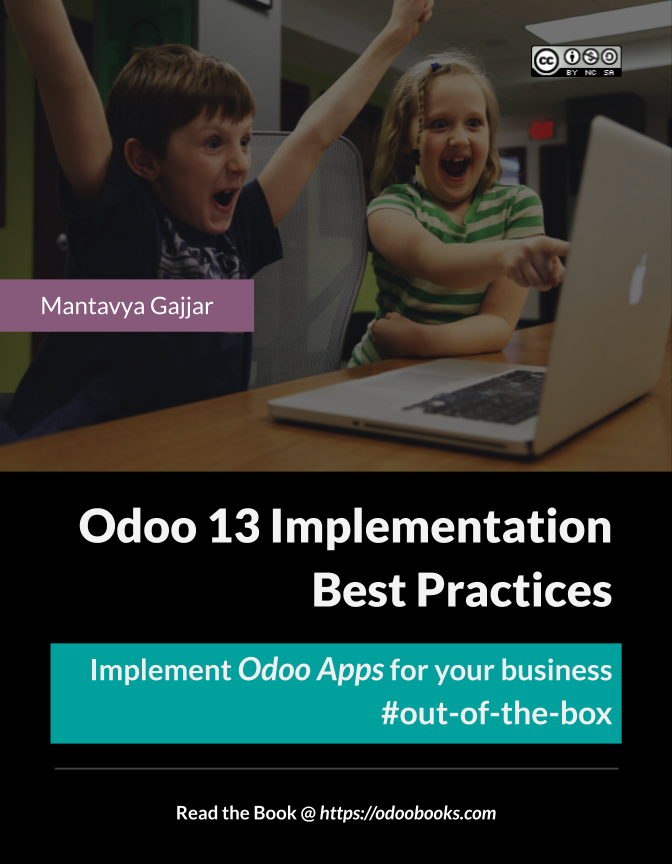
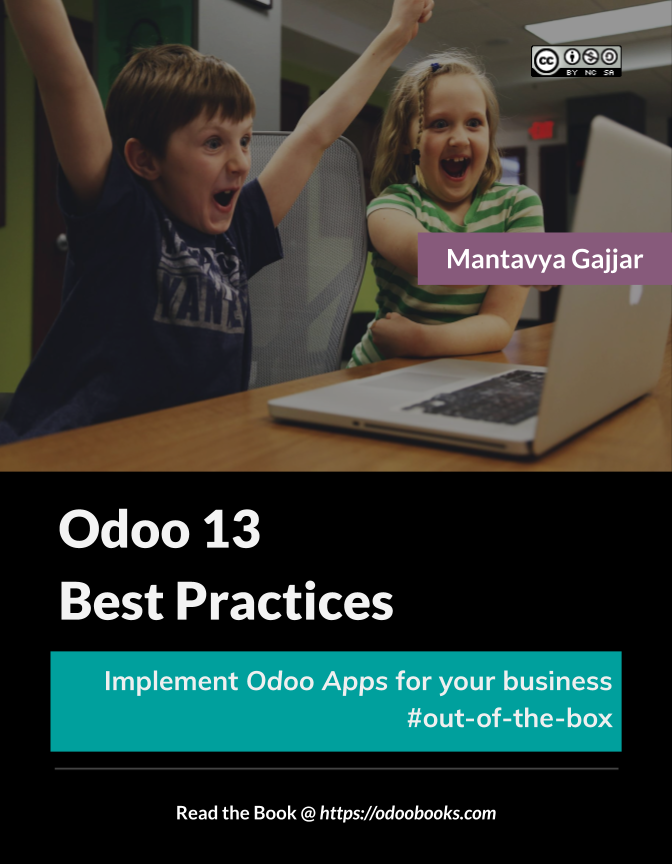
[FIX]: set the images for the upcoming version of Odoo book (#18)

diff --git a/docs/conf.py b/docs/conf.py
@@ -63,9 +63,9 @@ author = u'Mantavya Gajjar'
 # built documents.
 #
 # The short X.Y version.
-version = '12.0'
+version = '13.0'
 # The full version, including alpha/beta/rc tags.
-release = '12.0'
+release = '13.0'
 
 # The language for content autogenerated by Sphinx. Refer to documentation
 # for a list of supported languages.

diff --git a/docs/about.rst b/docs/about.rst
@@ -1,32 +1,33 @@
 .. _about:
 
 .. meta::
-   :description: Title: Odoo 13 Implementation Best Practices, Author: Mantavya Gajjar, Category: Books, Price: Free
+   :description: Title: Odoo 13 Best Practices, Author: Mantavya Gajjar, Category: Books, Price: Free
    :keywords: Odoo Online Book, Odoo Functional Book, Odoo CookBook, Implement Odoo Version 12.0, Mantavya, Gajjar
 
 .. index::
    single: About Online Book
-   single: Odoo 13 Implementation Best Practices
+   single: Odoo 13 Best Practices
    single: About Author
    single: About Reviewer
 
-===========================================
-About Odoo 13 Implementation Best Practices
-===========================================
+============================
+About Odoo 13 Best Practices
+============================
 
 .. image:: images/odoo-13-book-small.png
    :height: 300px
    :width: 240 px
    :scale: 100 %
-   :alt: Odoo 12 Best Practices
+   :alt: Odoo 13 Best Practices
    :align: right
 
-Odoo 13 Implementation Best Practices book is dedicated for functional consultants or entrepreneur
-who wants to implement or use odoo online all-in-one business
+Odoo 13 Best Practices book is dedicated for functional consultants
+or entrepreneur who wants to implement or use odoo online all-in-one business
 application out-of-the box. This is an online book written based on Odoo
-**Community** and **Enterprise** Edition. This book covers best
-implementation approach for most used applications such as Sales,
-Purchase, Inventory, Financial Accounting and Manufacturing.
+**Community** and **Enterprise** Edition.
+
+This book covers best implementation approach for most used applications
+such as Sales, Purchase, Inventory, Financial Accounting and Manufacturing.
 
 Why this book?
 ==============

diff --git a/docs/toc.rst b/docs/toc.rst
@@ -9,14 +9,13 @@ Table of Content
 This book is dedicated for entrepreneur who wants to implement all-in-one
 business application out-of-the box for their business.
 
-**Odoo 13 Implementation Best Practices Book** is an online book written based on Community and Enterprise
-Edition. This book covers best implementation practice for most used
-applications such as Sales, Purchase, Inventory, Financial Accounting and
-Manufacturing.
+**Odoo 13 Best Practices Book** is an online book written based on
+Community and Enterprise Edition. This book covers best implementation practice
+for most used applications such as Sales, Purchase, Inventory,
+Financial Accounting and Manufacturing.
 
 .. note:: Please comment on the page below, if you have any question related to
-  that topic. You can also send an email to mail@mantavyagajjar.in to propose new
-  topics you would like to have on the book.
+  that topic, you can also propose new topics you would like to have on the book.
 
   You can subscribe to `Youtube <https://www.youtube.com/c/MantavyaGajjar>`_
   channel to receive an instance update about the new videos and pages on this book.

diff --git a/docs/index.rst b/docs/index.rst
@@ -10,16 +10,15 @@
   :description: Odoo 12 Best Practices
   :keywords: Odoo Book, Odoo Online, Online Odoo Book, Odoo Functional Book, Version 12.0
 
-Odoo 13 Implementation Best Practices
-=====================================
+Odoo 13 Best Practices
+======================
 This book is dedicated for entrepreneur who wants to implement all-in-one
 business application out-of-the box for their business.
 
-**Odoo 13 Implementation Best Practices Book** is an online book written based on Community and Enterprise
-
-Edition. This book covers best implementation practice for most used
-applications such as Sales, Purchase, Inventory, Financial Accounting and
-Manufacturing.
+**Odoo 13 Best Practices Book** is an online book written based on
+Community and Enterprise Edition. This book covers best implementation practice
+for most used applications such as Sales, Purchase, Inventory,
+Financial Accounting and Manufacturing.
 
 .. note:: Please comment on the page below, if you have any question related to
   that topic, you can also propose new topics you would like to have on the book.
